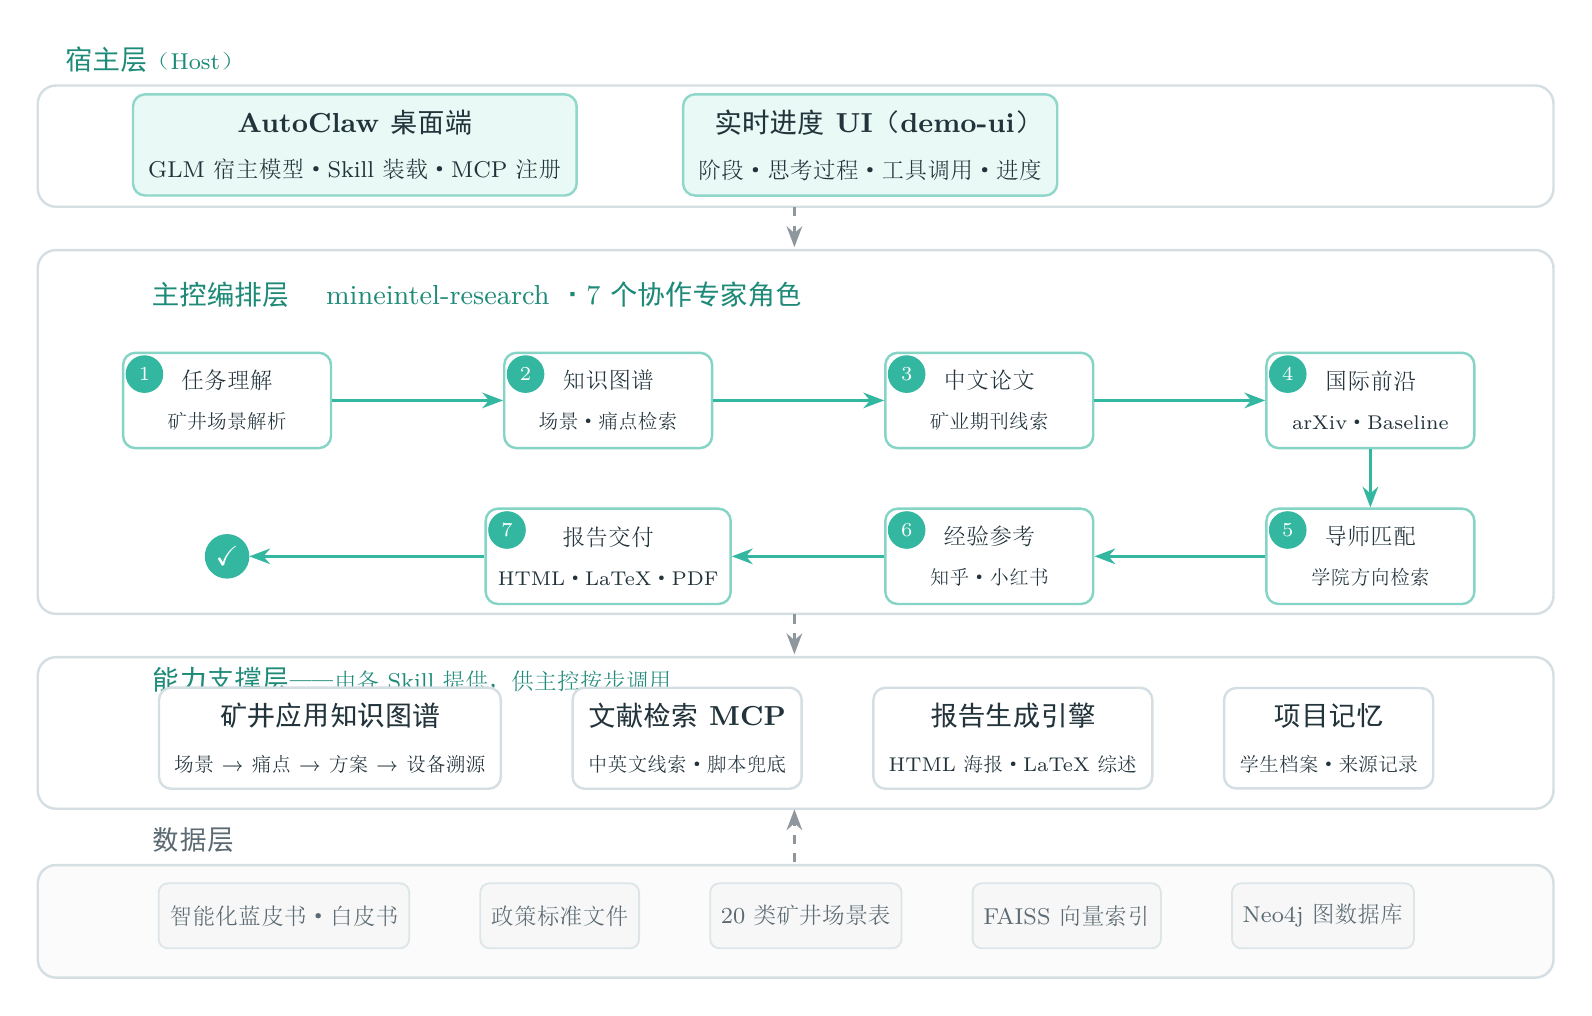
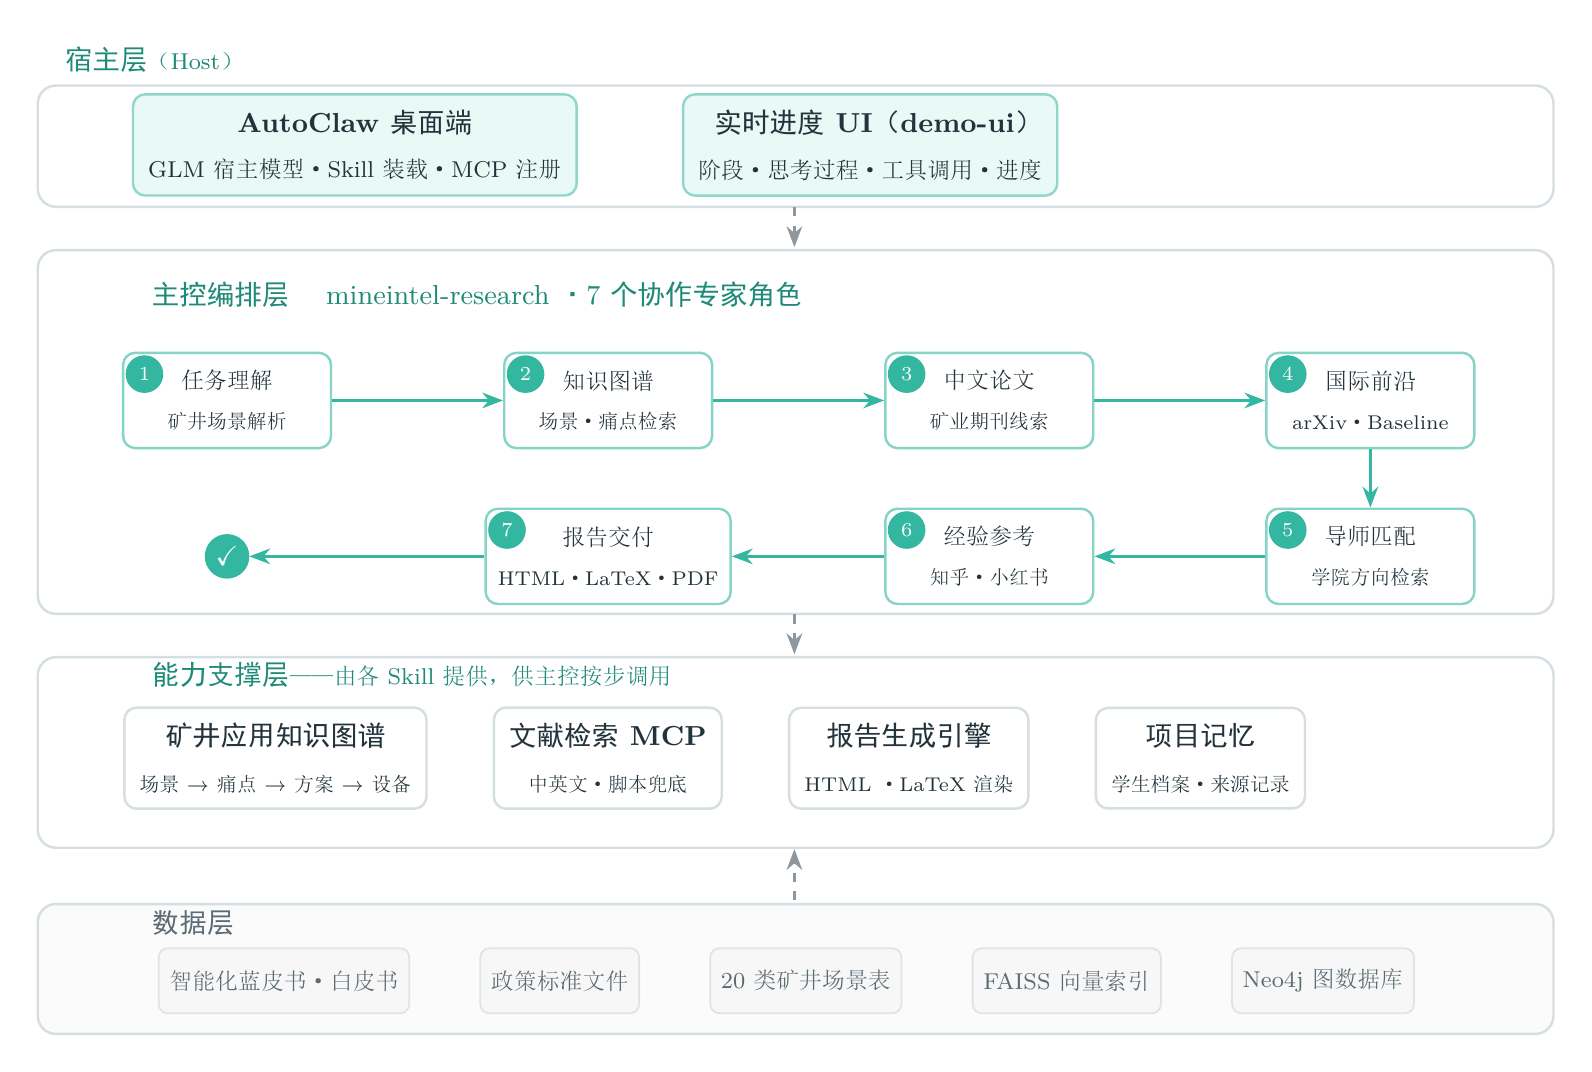
Polish README: fix diagram overlap, real PDF screenshot, tech stack on top
Widen the support layer and rebalance margins in the TikZ architecture
diagram (overlap verified via multimodal review), replace the literature
review image with a spread rendered from the actual compiled PDF, move
the tech stack section to the top, and drop the multi-agent card.

diff --git a/README_EN.md b/README_EN.md
@@ -24,6 +24,21 @@
 
 ---
 
+## Tech Stack
+
+<p align="center">
+  <img src="https://img.shields.io/badge/AutoClaw-Agent%20Platform-34b7a0?style=flat-square" alt="AutoClaw">
+  <img src="https://img.shields.io/badge/GLM-LLM%20Engine-4285f4?style=flat-square" alt="GLM">
+  <img src="https://img.shields.io/badge/MCP-Tool%20Protocol-4ac8e8?style=flat-square" alt="MCP">
+  <img src="https://img.shields.io/badge/Python-3.10%2B-3776AB?style=flat-square&logo=python&logoColor=white" alt="Python">
+  <img src="https://img.shields.io/badge/XeLaTeX-PDF%20Engine-008080?style=flat-square" alt="XeLaTeX">
+  <img src="https://img.shields.io/badge/Neo4j%20%C2%B7%20FAISS-Knowledge%20Storage-e07b39?style=flat-square" alt="Storage">
+</p>
+
+Built on the native **AutoClaw** Skill architecture with the **GLM** host model: retrieval over **MCP**, knowledge in **Neo4j** + **FAISS**, literature reviews compiled to PDF by **XeLaTeX**.
+
+---
+
 ## Awards
 
 > 🏆 **First Prize (National Level)** in the Software Application & Development track of the 2026 China Collegiate Computing Contest (19th edition), selected for the featured-works commentary.
@@ -41,27 +56,20 @@ The project centers on multi-agent orchestration, a mining-application knowledge
 <tr>
 <td width="50%" align="center">
 
-**Multi-agent Orchestration**<br>
-Seven collaborating expert roles in sequence: mining application expert → domain analyst → frontier expert → baseline expert → advisor-matching expert → experience expert → report expert.
-<img src="assets/demo-pipeline.png" alt="Multi-agent pipeline" width="100%">
-
-</td>
-<td width="50%" align="center">
-
 **Full HTML Report**<br>
 Auto-generates a magazine-poster style HTML research report covering topic, scenario analysis, paper leads, and technical route.
 <img src="assets/demo-report-html.png" alt="HTML research report" width="100%">
 
 </td>
-</tr>
-<tr>
 <td width="50%" align="center">
 
 **LaTeX/PDF Literature Review**<br>
-A structured LaTeX review compiled to PDF with proper citations and bibliography.
+A structured LaTeX review compiled to PDF with proper citations and bibliography (screenshot of an actual compiled output above).
 <img src="assets/demo-literature-review.png" alt="LaTeX literature review" width="100%">
 
 </td>
+</tr>
+<tr>
 <td width="50%" align="center">
 
 **Automatic Technical-Route Diagrams**<br>
@@ -69,16 +77,19 @@ Excalidraw technical route diagrams generated from research conclusions and embe
 <img src="assets/demo-tech-route.png" alt="Technical route diagram" width="100%">
 
 </td>
-</tr>
-</table>
+<td width="50%" valign="top">
 
-Other core capabilities:
+**Other core capabilities**
 
 - **Mining application knowledge graph** — built from blue/white books, policy standards, and manually curated scenario tables; structured retrieval with provenance (*scenario → pain point → solution → equipment → source*)
 - **Real-time progress UI** — pipeline state syncs live to a web page: current stage, reasoning, tool calls, and completion percentage
 - **Paper lead retrieval** — Chinese mining journals + arXiv/IEEE/MDPI, with script fallback when MCP is unavailable
 - **Advisor matching** — crawls faculty pages of China University of Mining and Technology schools for name, school, and profile link
 - **Advisor email drafts** — Gmail pre-fill in the browser + local preview, never sent automatically
+
+</td>
+</tr>
+</table>
 
 ---
 
@@ -162,19 +173,6 @@ Outputs are saved to `output/<timestamp_title>/`:
 | `assets/<title>_technical_route.excalidraw` | Technical route source (embedded in the HTML report) |
 | `<title>_literature_review.tex` | Literature review LaTeX source |
 | `<title>_literature_review.pdf` | Literature review PDF (requires XeLaTeX) |
-
----
-
-## Tech Stack
-
-<p align="center">
-  <img src="https://img.shields.io/badge/AutoClaw-Agent%20Platform-34b7a0?style=flat-square" alt="AutoClaw">
-  <img src="https://img.shields.io/badge/GLM-LLM%20Engine-4285f4?style=flat-square" alt="GLM">
-  <img src="https://img.shields.io/badge/MCP-Tool%20Protocol-4ac8e8?style=flat-square" alt="MCP">
-  <img src="https://img.shields.io/badge/Python-3.10%2B-3776AB?style=flat-square&logo=python&logoColor=white" alt="Python">
-  <img src="https://img.shields.io/badge/XeLaTeX-PDF%20Engine-008080?style=flat-square" alt="XeLaTeX">
-  <img src="https://img.shields.io/badge/Neo4j%20%C2%B7%20FAISS-Knowledge%20Storage-e07b39?style=flat-square" alt="Storage">
-</p>
 
 ---
 

diff --git a/README.md b/README.md
@@ -24,6 +24,21 @@
 
 ---
 
+## 技术栈
+
+<p align="center">
+  <img src="https://img.shields.io/badge/AutoClaw-Agent%20Platform-34b7a0?style=flat-square" alt="AutoClaw">
+  <img src="https://img.shields.io/badge/GLM-LLM%20Engine-4285f4?style=flat-square" alt="GLM">
+  <img src="https://img.shields.io/badge/MCP-Tool%20Protocol-4ac8e8?style=flat-square" alt="MCP">
+  <img src="https://img.shields.io/badge/Python-3.10%2B-3776AB?style=flat-square&logo=python&logoColor=white" alt="Python">
+  <img src="https://img.shields.io/badge/XeLaTeX-PDF%20Engine-008080?style=flat-square" alt="XeLaTeX">
+  <img src="https://img.shields.io/badge/Neo4j%20%C2%B7%20FAISS-Knowledge%20Storage-e07b39?style=flat-square" alt="Storage">
+</p>
+
+基于 **AutoClaw** 原生 Skill 架构与 **GLM** 宿主模型构建：检索走 **MCP** 协议，知识沉淀于 **Neo4j** 图数据库与 **FAISS** 向量索引，文献综述由 **XeLaTeX** 编译为 PDF。
+
+---
+
 ## 成果与荣誉
 
 > 🏆 **2026 年（第 19 届）中国大学生计算机设计大赛**「软件应用与开发」类 **国家一等奖**，并入选特色作品点评。
@@ -41,27 +56,20 @@
 <tr>
 <td width="50%" align="center">
 
-**多智能体协作编排**<br>
-7 个协作专家角色按序编排：矿井应用专家 → 领域分析师 → 行业前沿专家 → Baseline 专家 → 导师申报专家 → 经验参考专家 → 总报告专家。
-<img src="assets/demo-pipeline.png" alt="多智能体编排流水线" width="100%">
-
-</td>
-<td width="50%" align="center">
-
 **HTML 完整报告**<br>
 自动生成 magazine-poster 风格的 HTML 调研报告，覆盖研究主题、场景分析、论文线索与技术路线。
 <img src="assets/demo-report-html.png" alt="HTML 调研报告" width="100%">
 
 </td>
-</tr>
-<tr>
 <td width="50%" align="center">
 
 **LaTeX/PDF 文献综述**<br>
-结构化 LaTeX 综述自动编译为 PDF，含规范的引用与参考文献排版。
+结构化 LaTeX 综述自动编译为 PDF（上图为真实编译产物），含规范的引用与参考文献排版。
 <img src="assets/demo-literature-review.png" alt="LaTeX 文献综述" width="100%">
 
 </td>
+</tr>
+<tr>
 <td width="50%" align="center">
 
 **技术路线图自动生成**<br>
@@ -69,16 +77,19 @@
 <img src="assets/demo-tech-route.png" alt="技术路线图" width="100%">
 
 </td>
-</tr>
-</table>
+<td width="50%" valign="top">
 
-其他核心能力：
+**其他核心能力**
 
 - **矿井应用知识图谱** — 基于蓝皮书、政策标准与人工场景表构建，支持 *场景 → 痛点 → 解决方案 → 技术设备 → 来源依据* 的结构化检索与溯源
 - **实时进度 UI** — 调研过程实时同步到 Web 页面，展示当前阶段、思考过程、工具调用与完成百分比
 - **论文线索检索** — 中文矿业期刊 + arXiv/IEEE/MDPI 国际前沿，MCP 不可用时脚本兜底
 - **导师方向匹配** — 自动检索中国矿业大学各学院师资页面，给出姓名、学院与官网链接
 - **导师邮件草稿** — 浏览器预填 Gmail + 本地预览，不自动发送
+
+</td>
+</tr>
+</table>
 
 ---
 
@@ -162,19 +173,6 @@ uv sync
 | `assets/<标题>_technical_route.excalidraw` | 技术路线图源文件（已嵌入 HTML 报告技术路线章节） |
 | `<标题>_literature_review.tex` | 文献综述 LaTeX 源码 |
 | `<标题>_literature_review.pdf` | 文献综述 PDF（需 XeLaTeX） |
-
----
-
-## 技术栈
-
-<p align="center">
-  <img src="https://img.shields.io/badge/AutoClaw-Agent%20Platform-34b7a0?style=flat-square" alt="AutoClaw">
-  <img src="https://img.shields.io/badge/GLM-LLM%20Engine-4285f4?style=flat-square" alt="GLM">
-  <img src="https://img.shields.io/badge/MCP-Tool%20Protocol-4ac8e8?style=flat-square" alt="MCP">
-  <img src="https://img.shields.io/badge/Python-3.10%2B-3776AB?style=flat-square&logo=python&logoColor=white" alt="Python">
-  <img src="https://img.shields.io/badge/XeLaTeX-PDF%20Engine-008080?style=flat-square" alt="XeLaTeX">
-  <img src="https://img.shields.io/badge/Neo4j%20%C2%B7%20FAISS-Knowledge%20Storage-e07b39?style=flat-square" alt="Storage">
-</p>
 
 ---
 
